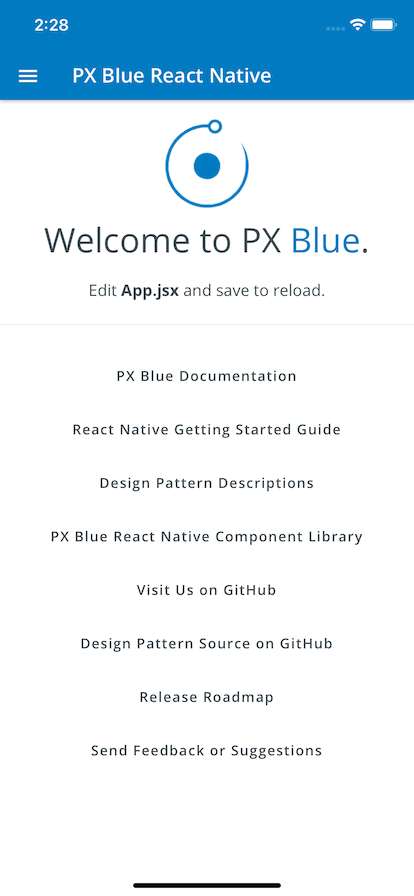
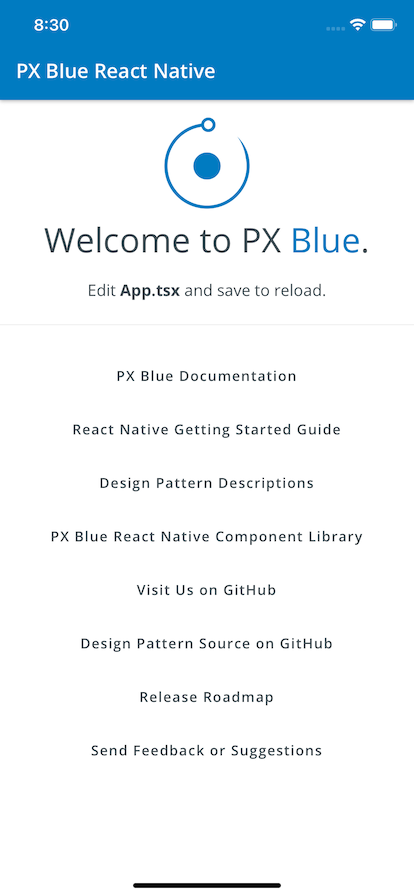
Update readme project structure, update root package.json version, update blank-typescript-ios image, uncomment circleci auto publish code

diff --git a/demo/App.tsx b/demo/App.tsx
@@ -6,7 +6,6 @@ import {
     Linking,
     TextStyle,
     ViewStyle,
-    ImageStyle,
     View,
     Animated,
     Easing,
@@ -22,7 +21,7 @@ const styles = (
 ): StyleSheet.NamedStyles<{
     content: ViewStyle;
     pxbLogoWrapper: ViewStyle;
-    pxbLogo: Animated.WithAnimatedValue<ImageStyle>; // @TODO: Verify this type
+    pxbLogo: ViewStyle;
     title: TextStyle;
     subtitle: TextStyle;
     bold: TextStyle;
@@ -114,7 +113,7 @@ const App = (): JSX.Element => {
                         Welcome to PX <H4 color={'primary'}>Blue</H4>.
                     </H4>
                     <Body1 style={defaultStyles.subtitle}>
-                        Edit <Body1 style={defaultStyles.bold}>App.jsx</Body1> and save to reload.
+                        Edit <Body1 style={defaultStyles.bold}>App.tsx</Body1> and save to reload.
                     </Body1>
                     <Divider style={defaultStyles.divider} />
                     <OpenURLButton title={'PX Blue Documentation'} url={'https://pxblue.github.io/'} />

diff --git a/blank-typescript/template/App.tsx b/blank-typescript/template/App.tsx
@@ -6,7 +6,6 @@ import {
     Linking,
     TextStyle,
     ViewStyle,
-    ImageStyle,
     View,
     Animated,
     Easing,
@@ -22,7 +21,7 @@ const styles = (
 ): StyleSheet.NamedStyles<{
     content: ViewStyle;
     pxbLogoWrapper: ViewStyle;
-    pxbLogo: Animated.WithAnimatedValue<ImageStyle>; // @TODO: Verify this type
+    pxbLogo: ViewStyle;
     title: TextStyle;
     subtitle: TextStyle;
     bold: TextStyle;

diff --git a/blank-typescript/README.md b/blank-typescript/README.md
@@ -16,6 +16,8 @@ npx -p @pxblue/cli pxb new react-native --name=myapp --cli=rnc --language=ts --t
 Projects created using this template will start out with the following file structure:
 
 ```
-└── root
-└── App.tsx                             // a sample landing page
+|── /ios                                   // ios project folder
+|── /android                               // android project folder
+|── /assets                                // fonts and images used by the application
+└── App.tsx                                // sample landing page
 ```

diff --git a/blank/README.md b/blank/README.md
@@ -16,6 +16,8 @@ npx -p @pxblue/cli pxb new react-native --name=myapp --cli=rnc --language=js --t
 Projects created using this template will start out with the following file structure:
 
 ```
-└── root
-└── App.js                             // a sample landing page
+|── /ios                                   // ios project folder
+|── /android                               // android project folder
+|── /assets                                // fonts and images used by the application
+└── App.js                                 // sample landing page
 ```
